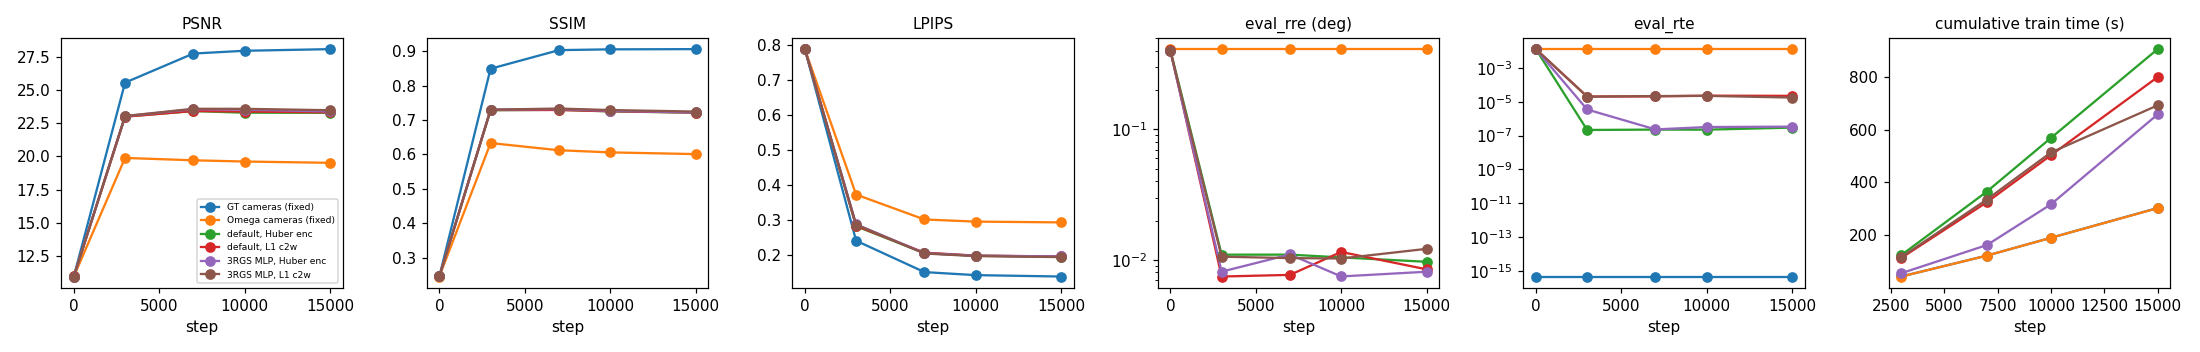
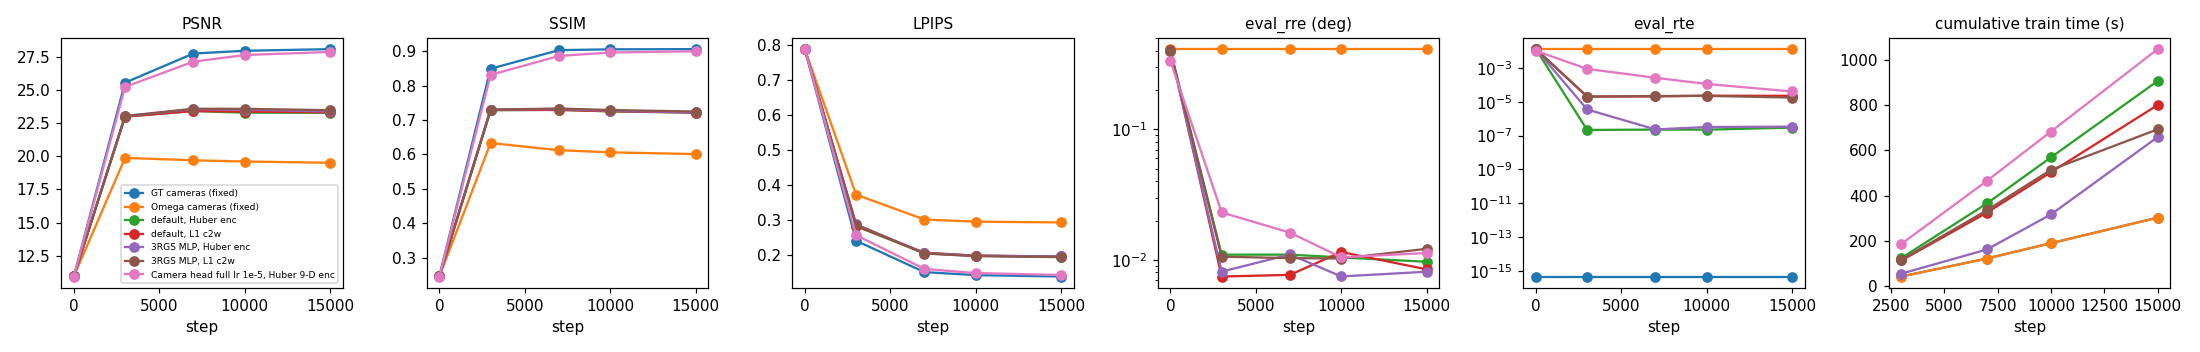
Add the full camera head arm to the pose-opt loss experiment and log

diff --git a/experiment_runner.py b/experiment_runner.py
@@ -5434,6 +5434,22 @@ experiments.append(
                 "camft_lr": 1e-04,
                 "series_label_override": "6. 3RGS MLP pose opt, L1 c2w GT loss (lr 1e-4)",
             },
+            {
+                "seed": [42],
+                "num_steps": [15000],
+                "num_images": [40],
+                "sampling_mode": ["random"],
+                "num_points_value": 100000,
+                "gt_eval": True,
+                "eval_all": True,
+                "model": "omega",
+                "save_ply": True,
+                "choice": ["vggt"],
+                "camft": True,
+                "camft_gt_loss": True,
+                "camft_lr": 1e-05,
+                "series_label_override": "7. Camera head trained with GT loss during 3DGS (full, lr 1e-5)",
+            },
         ],
         PlotConfig(
             x_axis="val_step",

diff --git a/experiments/2026-11-17_omega_pose_opt_modules/collect.py b/experiments/2026-11-17_omega_pose_opt_modules/collect.py
@@ -8,6 +8,7 @@ runs = [  # (experiment, arm, glob)
     ("loss", "default, L1 c2w", "vggt_outputs/*cft-0.0001-pdef-d0-gtl1c2w" + E_),
     ("loss", "3RGS MLP, Huber enc", "vggt_outputs/*cft-0.0001-mlp-d0-gtloss" + E_),
     ("loss", "3RGS MLP, L1 c2w", "vggt_outputs/*cft-0.0001-mlp-d0-gtl1c2w" + E_),
+    ("loss", "Camera head full lr 1e-5, Huber 9-D enc", "vggt_outputs/*cft-1e-05-full-d0-gtloss" + E_),
     ("gtk", "GT cameras (fixed)", "combined_outputs/*omega_combined_gtcams*evalall_steps15000"),
     ("gtk", "Omega poses (fixed), GT K", "vggt_outputs/*cft-0.0001-fixed-d0-gtk" + E_),
     ("gtk", "default, Huber enc", "vggt_outputs/*cft-0.0001-pdef-d0-gtloss-gtk" + E_),

diff --git a/experiments/2026-11-17_omega_pose_opt_modules/README.md b/experiments/2026-11-17_omega_pose_opt_modules/README.md
@@ -19,6 +19,7 @@ Two experiments in `experiment_runner.py`, both starting from the VGGT-Omega cam
   - L1 c2w (`camft_gt_loss_type=l1_c2w`): mean absolute difference of the 3x4 camera-to-world matrices vs the aligned GT c2w, in the trainer's normalised frame.
 - Intrinsics: in `omega_pose_opt_loss` the intrinsics stay at each frame's initial Omega prediction (no module changes them). In `omega_pose_opt_gtk` (`camft_gt_k`) the intrinsics of every
   rendered training view are the GT intrinsics of that frame (GT principal point included) scaled to the training image size, fixed. The maximum absolute difference to the Omega K entries is 32.55 px.
+- The full camera head arm (7, `omega_pose_opt_loss` only) differs from the module arms in more than the module: it runs the head on all frames every step, its lr is 1e-5 (the earlier experiment's value, not 1e-4), its Huber loss is on all 9 pose-encoding dimensions including fov (the module arms use the 7 T + quaternion dimensions), and it was run on GPU 2 on 16 Nov. There is no GT-K variant of it.
 - Reused results (same config as earlier runs, skipped by the runner): GT cameras fixed (also the first arm of `omega_pose_opt_gtk`), Omega cameras fixed, and the 3RGS + Huber arm with Omega K
   (arm 6 of `omega_camft_gt_15k`, run on GPU 0 on 17 Nov 06:43 to 07:00). The GT baseline and Omega baseline were not asked for specifically; I added them to the first experiment (and GT fixed to the second).
 - Extra run options introduced for this experiment: `camft_module` (`default` | `fixed`; `camft_mlp` = 3RGS), `camft_gt_loss_type`, `camft_gt_k`.
@@ -31,6 +32,7 @@ Two experiments in `experiment_runner.py`, both starting from the VGGT-Omega cam
 | 4 | default module, L1 c2w |
 | 5 | 3RGS MLP, Huber on pose encoding (reused) |
 | 6 | 3RGS MLP, L1 c2w |
+| 7 | Camera head (full, lr 1e-5), Huber on the 9-D pose encoding incl. fov (reused; arm 2 of `omega_camft_gt_15k`, added after the first write-up) |
 
 | `omega_pose_opt_gtk` (all with GT K) | Cameras / loss |
 |---|---|
@@ -74,6 +76,7 @@ PSNR / SSIM / LPIPS over the 252 evaluation images.
 | 4. default, L1 c2w | 10.95 / 0.246 / 0.789 | 22.99 / 0.729 / 0.284 | 23.42 / 0.729 / 0.207 | 23.38 / 0.726 / 0.199 | 23.32 / 0.722 / 0.197 |
 | 5. 3RGS MLP, Huber | 10.93 / 0.246 / 0.789 | 23.04 / 0.730 / 0.288 | 23.56 / 0.732 / 0.206 | 23.52 / 0.727 / 0.199 | 23.39 / 0.722 / 0.197 |
 | 6. 3RGS MLP, L1 c2w | 10.93 / 0.246 / 0.789 | 23.04 / 0.730 / 0.288 | 23.59 / 0.733 / 0.205 | 23.59 / 0.729 / 0.198 | 23.48 / 0.725 / 0.195 |
+| 7. Camera head, full lr 1e-5 | 10.93 / 0.245 / 0.789 | 25.24 / 0.831 / 0.257 | 27.15 / 0.886 / 0.161 | 27.65 / 0.896 / 0.149 | 27.88 / 0.900 / 0.144 |
 
 `eval_rre` (deg) / `eval_rte` of the 40 training cameras against GT (rte depends on the world normalisation of each run):
 
@@ -85,9 +88,10 @@ PSNR / SSIM / LPIPS over the 252 evaluation images.
 | 4. default, L1 c2w | 0.4053 / 1.28e-2 | 0.0074 / 2.0e-5 | 0.0077 / 2.1e-5 | 0.0115 / 2.3e-5 | 0.0084 / 2.2e-5 |
 | 5. 3RGS MLP, Huber | 0.3970 / 1.30e-2 | 0.0081 / 3.5e-6 | 0.0110 / 2.3e-7 | 0.0074 / 3.2e-7 | 0.0081 / 3.4e-7 |
 | 6. 3RGS MLP, L1 c2w | 0.3975 / 1.30e-2 | 0.0106 / 2.0e-5 | 0.0103 / 2.2e-5 | 0.0102 / 2.2e-5 | 0.0121 / 1.8e-5 |
+| 7. Camera head, full lr 1e-5 | 0.3365 / 1.02e-2 | 0.0231 / 8.8e-4 | 0.0161 / 2.6e-4 | 0.0104 / 1.1e-4 | 0.0113 / 4.0e-5 |
 
 ![renders](figures/renders_loss.jpg)
-(Renders: `render_nums=[0, 2, 5]`, step 15000, evaluation frames; rows: ground truth, arms 1 to 6.)
+(Renders: `render_nums=[0, 2, 5]`, step 15000, evaluation frames; rows: ground truth, arms 1 to 7.)
 
 ### `omega_pose_opt_gtk` (GT intrinsics)
 ![metrics](figures/metrics_gtk.png)
@@ -118,6 +122,7 @@ loss and the rendered cameras are detached, so the camera trajectory does not de
 | 4. default, L1 c2w | 799 s | 53.3 | 799 s | 53.2 |
 | 5. 3RGS MLP, Huber | 658 s (reused, run 17 Nov 06:43 to 07:00) | 43.9 | 802 s | 53.5 |
 | 6. 3RGS MLP, L1 c2w | 692 s | 46.1 | 804 s | 53.6 |
+| 7. Camera head, full lr 1e-5 | 1046 s (reused, GPU 2, 16 Nov) | 69.7 | not run | |
 
 Arms 1 and 2 of `omega_pose_opt_loss` and the GT arm of `omega_pose_opt_gtk` are reused from the runs on GPU 2 (16 Nov).
 
